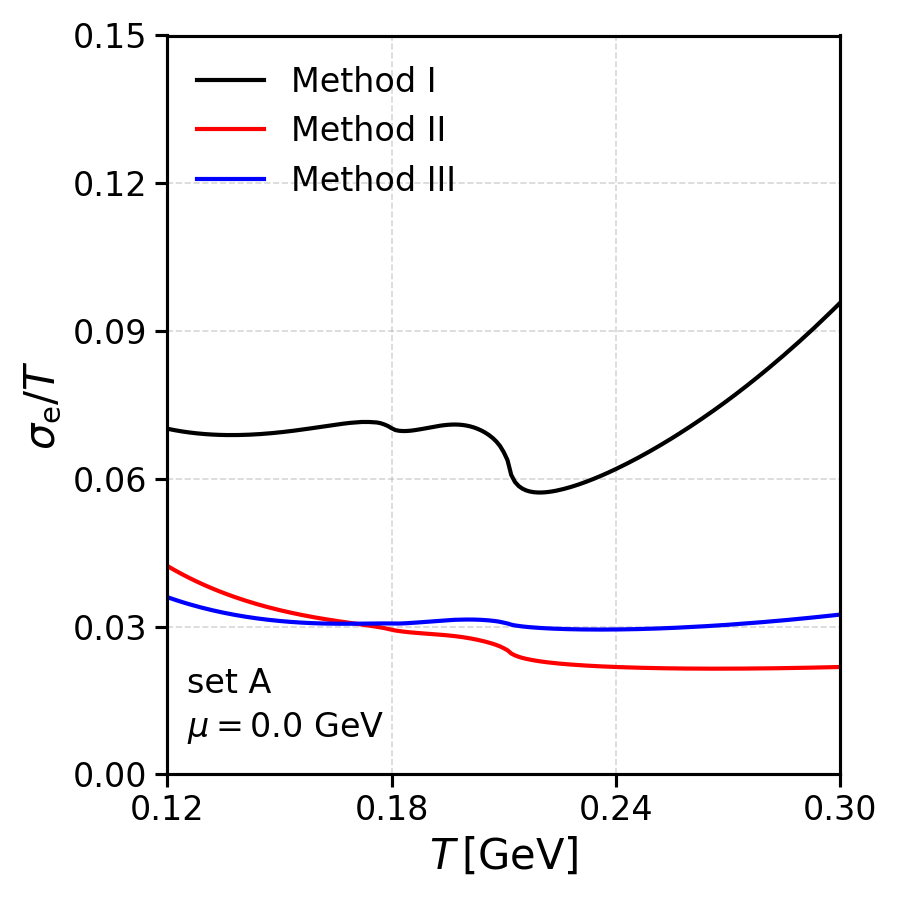
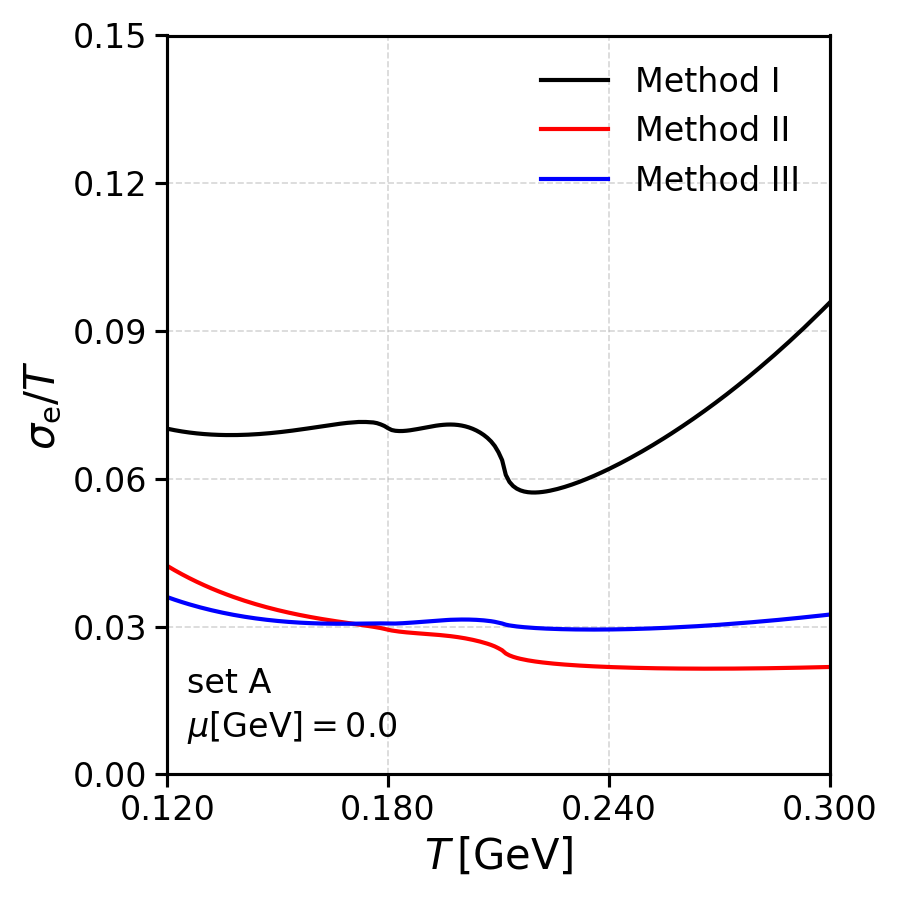
add sigmae plots passing through the CEP chemical potential; uniformize plots;

diff --git a/calculations/su3_3d_cutoff_transport_coefficients/plotting/generate_sigmae_plots.py b/calculations/su3_3d_cutoff_transport_coefficients/plotting/generate_sigmae_plots.py
@@ -47,14 +47,14 @@ plot_sigmae_vs_temp(
     ylim=(0.0, 0.03),
     x_num_ticks=4,
     y_num_ticks=4,
-    x_formatter="%.2f", 
+    x_formatter="%.3f", 
     y_formatter="%.2f",
     annotation_texts=[
         "set A",
-        r"$\mu = 0.0\ \mathrm{GeV}$",
+        r"$\mu [\mathrm{GeV}] = 0.0$",
     ],
-    x_annotation=0.03,
-    y_annotation=0.6,
+    x_annotation=0.05,
+    y_annotation=0.665,
 )
 
 plot_sigmae_over_temp_vs_temp(
@@ -63,16 +63,82 @@ plot_sigmae_over_temp_vs_temp(
     fig_y_size,
     datasets_cp0,
     path_output_plot_folder + "sigmae_over_temp_vs_temp_setA_CP0.png",
-    "upper left",
+    "upper right",
     xlim=(0.120, 0.300),
     ylim=(0.00, 0.15),
     x_num_ticks=4,
     y_num_ticks=6,
-    x_formatter="%.2f", 
+    x_formatter="%.3f", 
     y_formatter="%.2f",
     annotation_texts=[
         "set A",
-        r"$\mu = 0.0\ \mathrm{GeV}$",
+        r"$\mu [\mathrm{GeV}] = 0.0$",
+    ],
+    x_annotation=0.03,
+    y_annotation=0.05,
+)
+
+datasets_cpcep = [
+    (
+        path_transport_data_folder + "ElectricalConductivity_setA_COMPLETE_COV_CPCEP.dat",  
+        r"Method I", 
+        "black", 
+        2, 
+        "-"
+    ),
+    (
+        path_transport_data_folder + "ElectricalConductivity_setA_KLEVANSKY_CPCEP.dat",  
+        r"Method II", 
+        "red", 
+        2, 
+        "-"
+    ),
+        (
+        path_transport_data_folder + "ElectricalConductivity_setA_ZHUANG_CPCEP.dat", 
+        r"Method III", 
+        "blue", 
+        2, 
+        "-"
+    ),
+]
+
+plot_sigmae_vs_temp(
+    fig_dpi,
+    fig_x_size,
+    fig_y_size,
+    datasets_cpcep,
+    path_output_plot_folder + "sigmae_vs_temp_setA_CPCEP.png",
+    "upper left",
+    xlim=(0.040, 0.300),
+    ylim=(0.0, 0.1),
+    x_num_ticks=5,
+    y_num_ticks=6,
+    x_formatter="%.3f", 
+    y_formatter="%.2f",
+    annotation_texts=[
+        "set A",
+        r"$\mu [\mathrm{GeV}] = \mu_{\mathrm{CEP}}$",
+    ],
+    x_annotation=0.05,
+    y_annotation=0.665,
+)
+
+plot_sigmae_over_temp_vs_temp(
+    fig_dpi,
+    fig_x_size,
+    fig_y_size,
+    datasets_cpcep,
+    path_output_plot_folder + "sigmae_over_temp_vs_temp_setA_CPCEP.png",
+    "upper right",
+    xlim=(0.040, 0.300),
+    ylim=(0.00, 0.9),
+    x_num_ticks=5,
+    y_num_ticks=6,
+    x_formatter="%.3f", 
+    y_formatter="%.2f",
+    annotation_texts=[
+        "set A",
+        r"$\mu [\mathrm{GeV}] = \mu_{\mathrm{CEP}}$",
     ],
     x_annotation=0.03,
     y_annotation=0.05,
